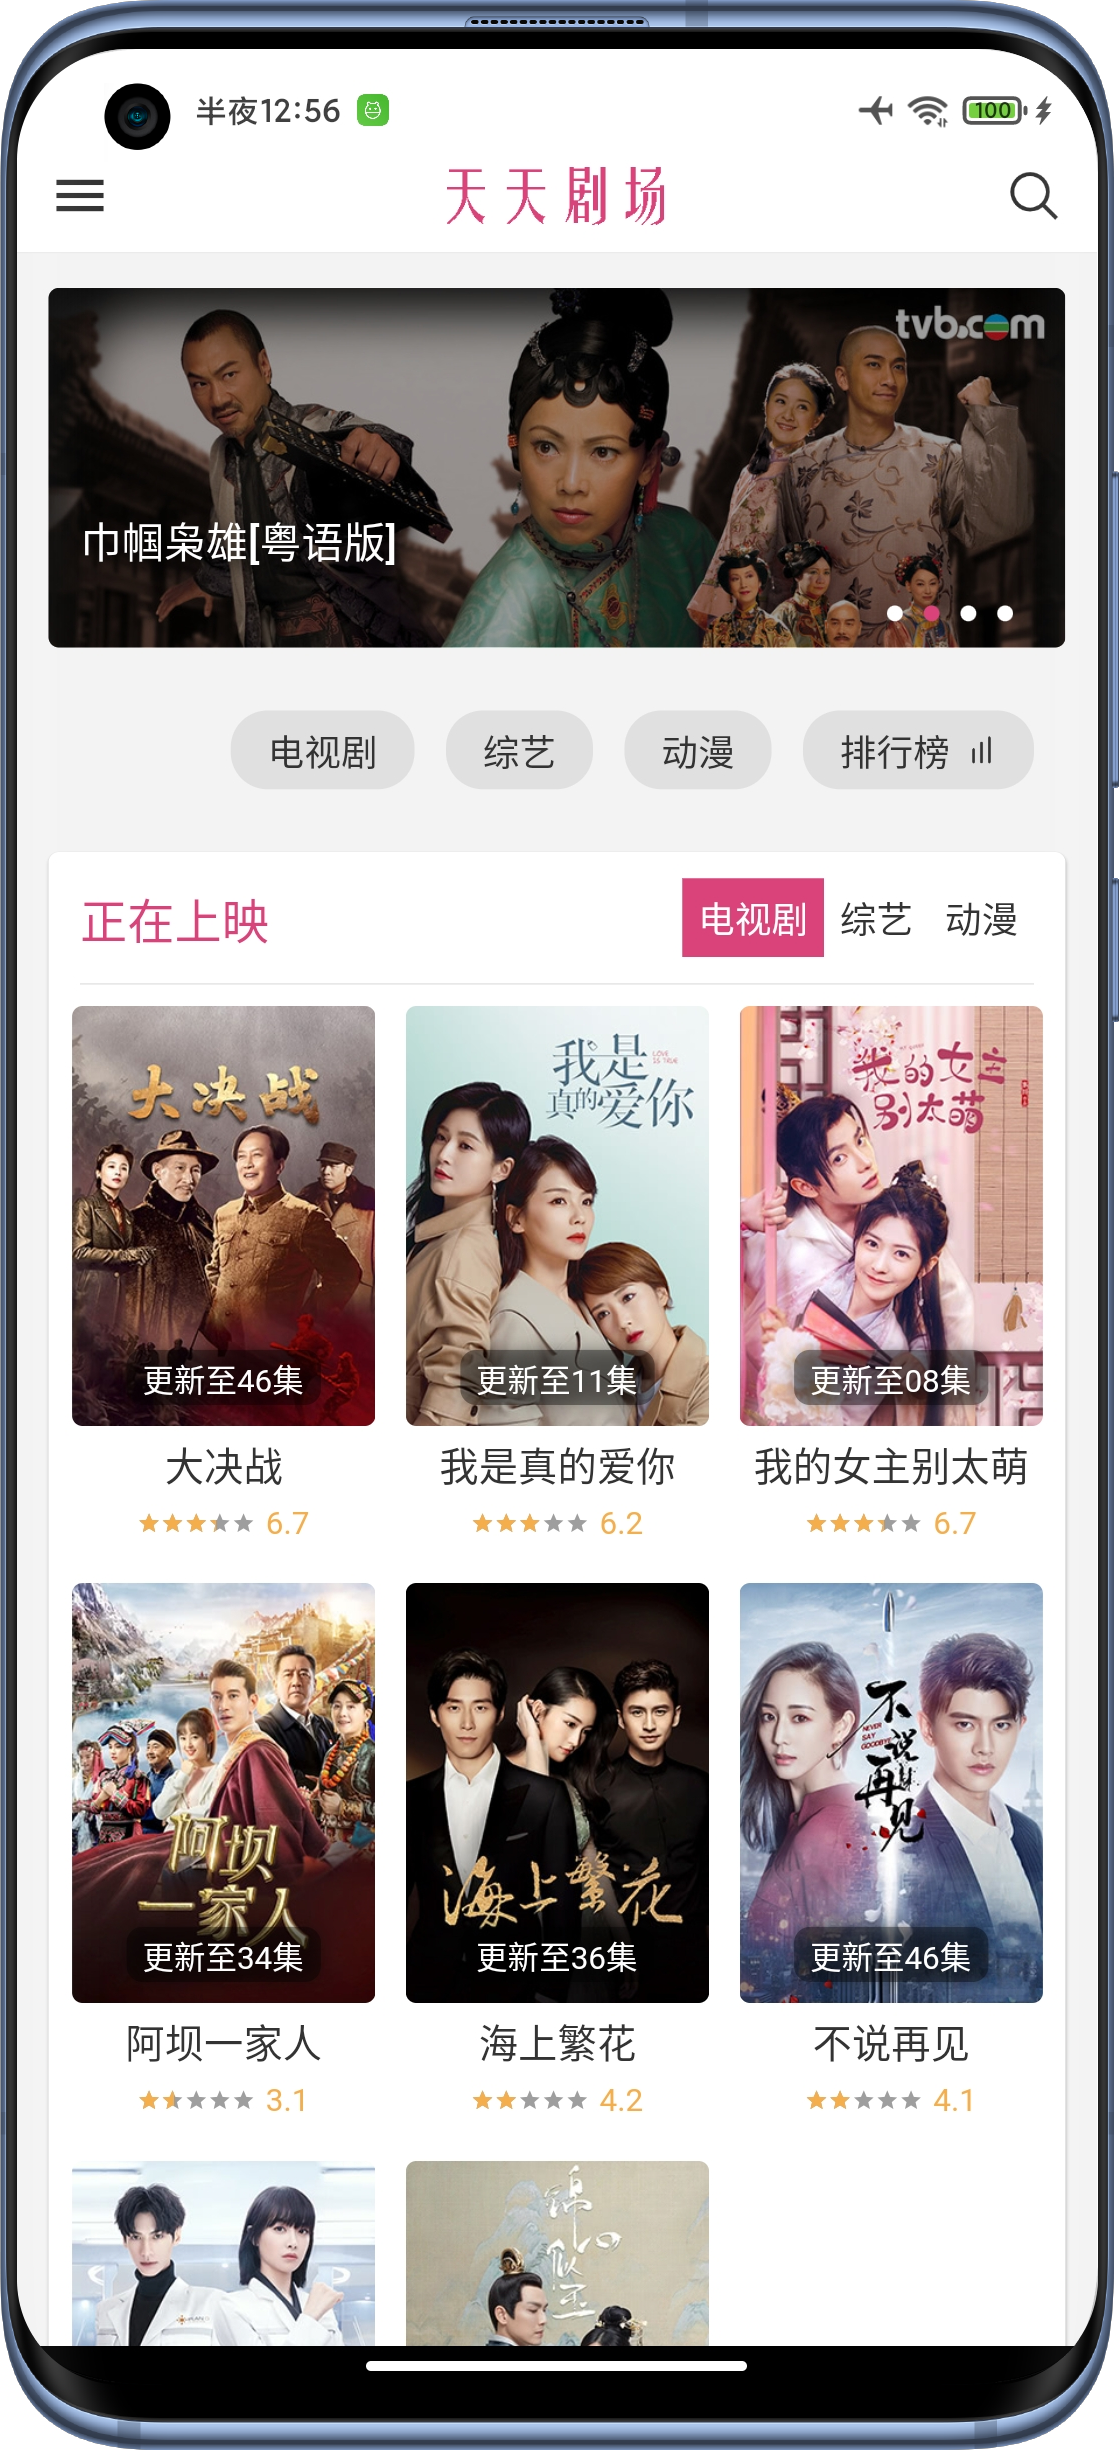
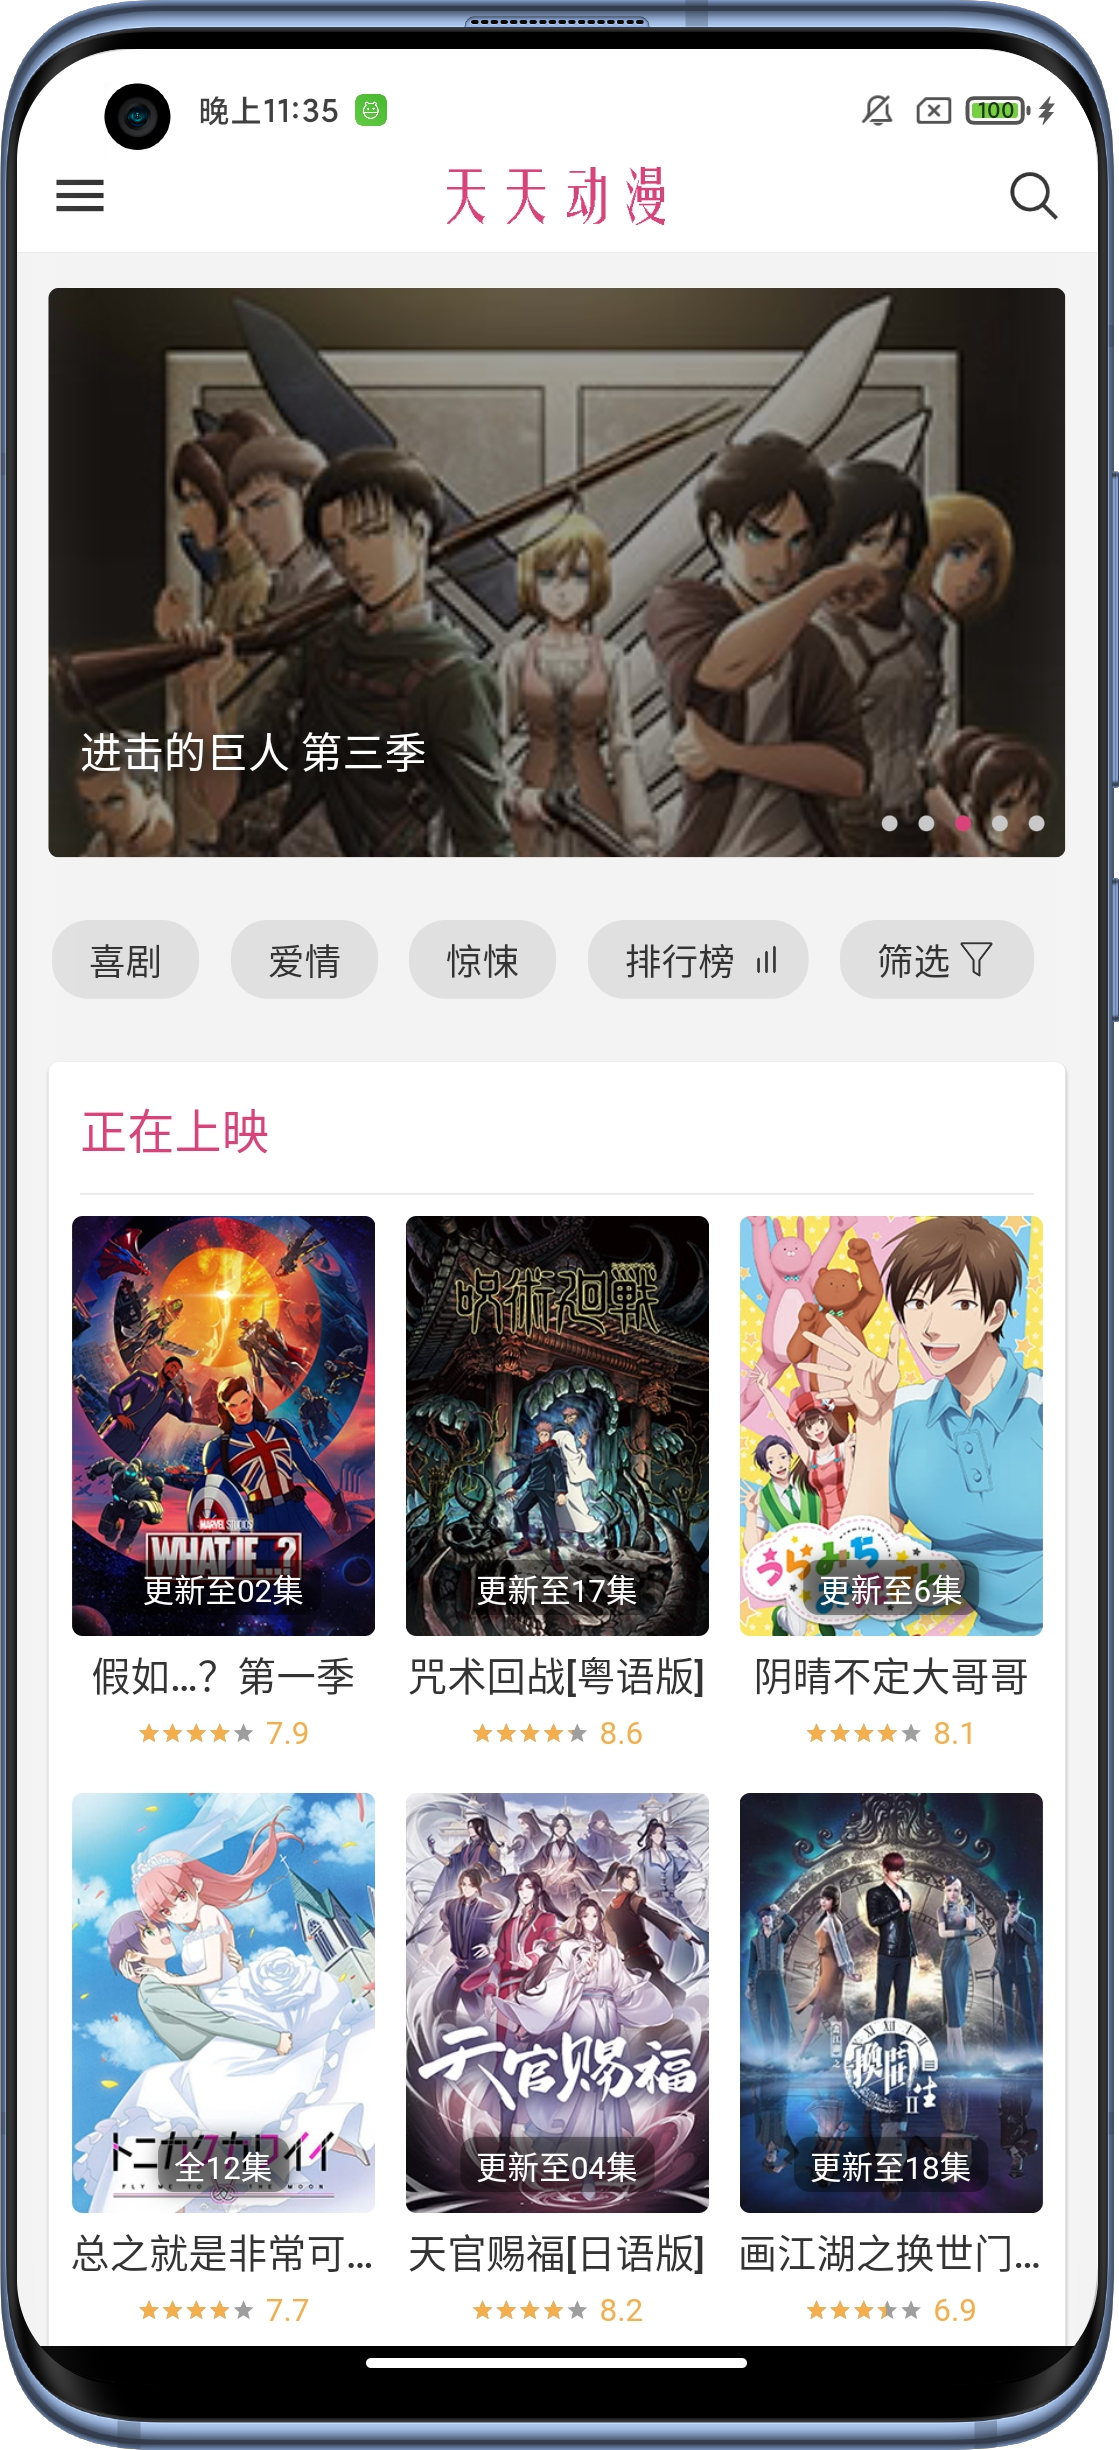
修改配置

diff --git a/support/index.html b/support/index.html
@@ -21,7 +21,7 @@
     <link rel="stylesheet" type="text/css" href="css/bootstrap.min.css" />
     <link rel="stylesheet" type="text/css" href="css/global.css" />
     <link rel="stylesheet" type="text/css" href="css/base.css" />
-    <title>天天剧场</title>
+    <title>天天动漫</title>
 </head>
 
 <body>
@@ -36,7 +36,7 @@
             <p style="font-size: 20px;padding-bottom: 10px;">应用介绍</p>
             <div class="dsp margin-bottom60">
                 <section>
-                    “天天剧场“提供热播电视剧大全，热门综艺和动漫。“天天剧场“汇集众多高清剧集资源，供您免费在线观看。看电视剧、综艺、动漫就来“天天剧场“！
+                    “天天动漫“提供热播动漫大全。“天天动漫“汇集众多高清剧集资源，供您免费在线观看。看高清动漫就来“天天动漫“！
                 </section>
             </div>
         </div>
@@ -44,7 +44,7 @@
             <p style="font-size: 20px;padding-bottom: 10px;">应用声明</p>
             <div class="dsp margin-bottom60">
                 <section>
-                    本App所有资源来源于第三方，天天剧场无权增加、修改、删除，不对影片播放的可靠性负责，视频中出现的任何广告都属于第三方资源提供方设置及制作，并且可能存在虚假或不良信息，请不要相信，以免上当受骗。
+                    本App所有资源来源于第三方，天天动漫无权增加、修改、删除，不对影片播放的可靠性负责，视频中出现的任何广告都属于第三方资源提供方设置及制作，并且可能存在虚假或不良信息，请不要相信，以免上当受骗。
                     <br>
                     <br> 本App是基于第三方公开接口的搜索引擎展示，应用并未存储任何音视频资源，所有展示内容皆是搜索引擎检索结果。
                     <br>

diff --git a/support/privacypolicy.html b/support/privacypolicy.html
@@ -29,9 +29,9 @@
       overflow-x: hidden;
     }
   </style>
-  <meta data-vue-meta="true" data-vmid="keywords" name="keywords" content="每日热读" />
+  <meta data-vue-meta="true" data-vmid="keywords" name="keywords" content="天天动漫" />
   <meta data-vue-meta="true" data-vmid="description" name="description" content="本软件尊重并保护所有使用服务用户的个人隐私权。为了给您提供更准确、更有个性化的服务，本软件会按照本隐私权政策的规定使用和披露您的个人信息。但本软件将以高度的勤勉、审慎义务对待这些信息。除本隐私权政策另有规定外，在未征得您事先许可的情况下，本软件不会将这些信息对" />
-  <title data-vue-meta="true">青少年百科全书 - 十万个为什么 隐私政策</title>
+  <title data-vue-meta="true">天天动漫 隐私政策</title>
 </head>
 
 <body>
